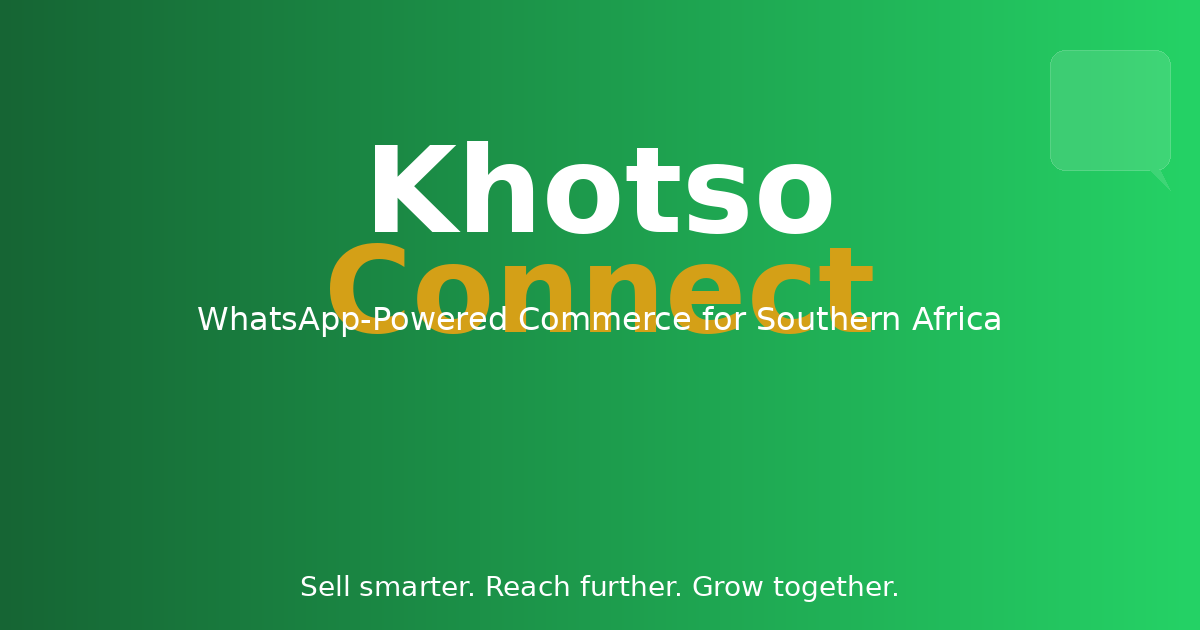
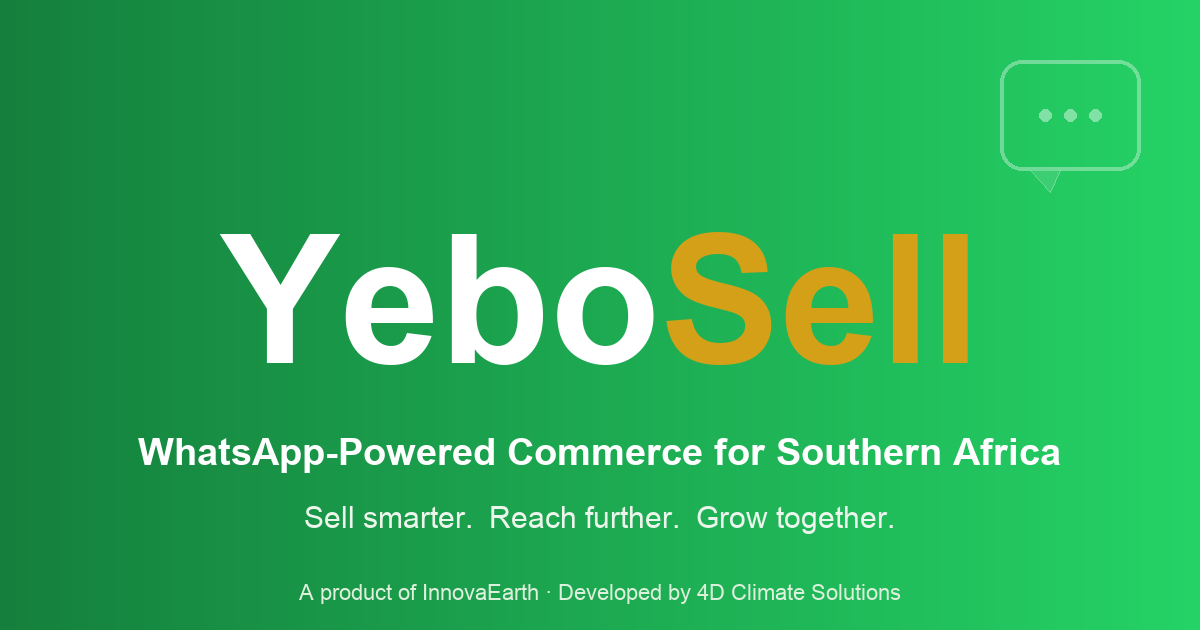
Regenerate OG image for YeboSell + landing footer fixes
- New OG image (1200×630): green gradient, "Yebo" white + "Sell"
  gold wordmark on a single line, tagline, and InnovaEarth × 4D
  attribution. Generator script in scripts/og-image.py for
  future tweaks.
- Landing footer: "A product of 4D Climate Solutions" line
  changed to "Developed by 4D Climate Solutions" (4D is the
  developer; InnovaEarth is the product principal).
- Landing footer: removed incorrect link from "InnovaEarth"
  (it was pointing at 4dcs.co.za).
- Landing wordmark spacing: wrapped Yebo|Sell spans in a single
  parent span in mobile drawer and footer so the .logo flex gap
  no longer separates them.
- Gitignore .claude/ to keep per-user Claude Code settings out
  of the repo going forward.

diff --git a/index.html b/index.html
@@ -432,7 +432,7 @@
                         <polygon points="32,30 32,35 27,30" fill="#D4A017"/>
                     </svg>
                 </div>
-                <span class="brand-green">Yebo</span><span class="accent">Sell</span>
+                <span><span class="brand-green">Yebo</span><span class="accent">Sell</span></span>
             </a>
             <button class="drawer-close" onclick="toggleDrawer()">
                 <svg width="24" height="24" viewBox="0 0 24 24" fill="none" stroke="currentColor" stroke-width="2"><path d="M18 6L6 18M6 6l12 12"/></svg>
@@ -1211,7 +1211,7 @@
                                 <polygon points="32,30 32,35 27,30" fill="#D4A017"/>
                             </svg>
                         </div>
-                        <span class="brand-green">Yebo</span><span class="accent">Sell</span>
+                        <span><span class="brand-green">Yebo</span><span class="accent">Sell</span></span>
                     </div>
                     <p style="font-style:italic;color:var(--gray-500);font-size:13px;margin-bottom:10px;">Sell smarter. Reach further. Grow together.</p>
                     <p>Built for Southern African merchants.</p>
@@ -1233,8 +1233,8 @@
                 </div>
             </div>
             <div class="footer-bottom">
-                <p>&copy; 2026 YeboSell · A product of <a href="https://4dcs.co.za">InnovaEarth</a>, developed by 4D Climate Solutions. All rights reserved.</p>
-                <p style="font-size:13px;color:var(--gray-400);">A product of <a href="https://4dcs.co.za" target="_blank" rel="noopener noreferrer" style="color:var(--green-600);font-weight:600;">4D Climate Solutions</a></p>
+                <p>&copy; 2026 YeboSell · A product of InnovaEarth, developed by 4D Climate Solutions. All rights reserved.</p>
+                <p style="font-size:13px;color:var(--gray-400);">Developed by <a href="https://4dcs.co.za" target="_blank" rel="noopener noreferrer" style="color:var(--green-600);font-weight:600;">4D Climate Solutions</a></p>
             </div>
         </div>
     </footer>

diff --git a/scripts/og-image.py b/scripts/og-image.py
@@ -1,0 +1,80 @@
+"""Generate the YeboSell Open Graph image (1200x630)."""
+from PIL import Image, ImageDraw, ImageFont
+from pathlib import Path
+
+W, H = 1200, 630
+OUT = Path(__file__).resolve().parent.parent / 'assets' / 'og-image.png'
+
+# Brand palette
+DARK_GREEN = (0x15, 0x80, 0x3d)   # left edge of gradient
+LIGHT_GREEN = (0x25, 0xd3, 0x66)  # right edge of gradient
+GOLD = (0xd4, 0xa0, 0x17)
+WHITE = (255, 255, 255)
+WHITE_DIM = (255, 255, 255, 220)
+
+img = Image.new('RGB', (W, H))
+px = img.load()
+for x in range(W):
+    t = x / (W - 1)
+    r = int(DARK_GREEN[0] + (LIGHT_GREEN[0] - DARK_GREEN[0]) * t)
+    g = int(DARK_GREEN[1] + (LIGHT_GREEN[1] - DARK_GREEN[1]) * t)
+    b = int(DARK_GREEN[2] + (LIGHT_GREEN[2] - DARK_GREEN[2]) * t)
+    for y in range(H):
+        px[x, y] = (r, g, b)
+
+# Overlay layer for the speech-bubble decoration with alpha
+overlay = Image.new('RGBA', (W, H), (0, 0, 0, 0))
+od = ImageDraw.Draw(overlay)
+# subtle WhatsApp-style speech bubble, top right
+bx, by, bw, bh = 1000, 60, 140, 110
+od.rounded_rectangle((bx, by, bx + bw, by + bh), radius=22,
+                     outline=(255, 255, 255, 90), width=4)
+# tail
+od.polygon([(bx + 30, by + bh), (bx + 50, by + bh + 22), (bx + 60, by + bh)],
+           fill=(255, 255, 255, 30), outline=(255, 255, 255, 90))
+# three dots inside
+for i, cx in enumerate((bx + 45, bx + 70, bx + 95)):
+    od.ellipse((cx - 6, by + bh // 2 - 6, cx + 6, by + bh // 2 + 6),
+               fill=(255, 255, 255, 110))
+
+img = Image.alpha_composite(img.convert('RGBA'), overlay).convert('RGB')
+draw = ImageDraw.Draw(img)
+
+# Fonts
+ARIAL_BOLD = '/System/Library/Fonts/Supplemental/Arial Bold.ttf'
+ARIAL = '/System/Library/Fonts/Supplemental/Arial.ttf'
+title_font = ImageFont.truetype(ARIAL_BOLD, 180)
+sub_font = ImageFont.truetype(ARIAL_BOLD, 38)
+tag_font = ImageFont.truetype(ARIAL, 30)
+attr_font = ImageFont.truetype(ARIAL, 22)
+
+def text_w(s, font):
+    return draw.textlength(s, font=font)
+
+# Wordmark — single line: "Yebo" white + "Sell" gold
+yebo, sell = 'Yebo', 'Sell'
+yw = text_w(yebo, title_font)
+sw = text_w(sell, title_font)
+total = yw + sw
+title_y = 200
+start_x = (W - total) // 2
+draw.text((start_x, title_y), yebo, fill=WHITE, font=title_font)
+draw.text((start_x + yw, title_y), sell, fill=GOLD, font=title_font)
+
+# Subtitle
+sub = 'WhatsApp-Powered Commerce for Southern Africa'
+draw.text(((W - text_w(sub, sub_font)) // 2, 430),
+          sub, fill=WHITE, font=sub_font)
+
+# Tagline
+tag = 'Sell smarter.  Reach further.  Grow together.'
+draw.text(((W - text_w(tag, tag_font)) // 2, 500),
+          tag, fill=(235, 245, 235), font=tag_font)
+
+# Attribution at bottom
+attr = 'A product of InnovaEarth · Developed by 4D Climate Solutions'
+draw.text(((W - text_w(attr, attr_font)) // 2, 580),
+          attr, fill=(220, 240, 220), font=attr_font)
+
+img.save(OUT, 'PNG', optimize=True)
+print(f'wrote {OUT} ({OUT.stat().st_size:,} bytes)')